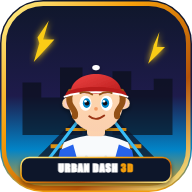
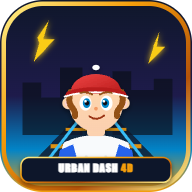
Urban-Dash-4D-menu

diff --git a/index.html b/index.html
@@ -3,7 +3,7 @@
 <head>
   <meta charset="UTF-8">
   <meta name="viewport" content="width=device-width, initial-scale=1.0, maximum-scale=1.0, user-scalable=no, viewport-fit=cover">
-  <title>Urban Dash 3D - Metro Rush</title>
+  <title>Urban Dash 4D - Metro Rush</title>
 
   <!-- Instant Cache Purge & Version Sync -->
   <script>
@@ -30,18 +30,18 @@
     })();
   </script>
 
-  <meta name="description" content="Urban Dash 3D: Metro Rush - High-octane 3D endless runner with magnetic rail tracks, jetpacks, crystal magnets, and monorail expresses!">
+  <meta name="description" content="Urban Dash 4D: Metro Rush - High-octane 3D endless runner with magnetic rail tracks, jetpacks, crystal magnets, and monorail expresses!">
   <meta name="theme-color" content="#0284c7">
   <meta name="mobile-web-app-capable" content="yes">
   <meta name="apple-mobile-web-app-capable" content="yes">
   <meta name="apple-mobile-web-app-status-bar-style" content="black-translucent">
-  <meta name="apple-mobile-web-app-title" content="Urban Dash 3D">
+  <meta name="apple-mobile-web-app-title" content="Urban Dash 4D">
   <link rel="manifest" href="manifest.json">
   <link rel="icon" type="image/svg+xml" href="icons/icon.svg">
   <link rel="apple-touch-icon" href="icons/icon-192.png">
 
   <!-- Stylesheet -->
-  <link rel="stylesheet" href="style.css?v=metro_rush">
+  <link rel="stylesheet" href="style.css?v=metro_rush_4d">
 </head>
 <body>
   <div id="game-container">
@@ -143,7 +143,7 @@
 
       <div class="menu-center-hero">
         <p class="game-subtitle">Metro Rush</p>
-        <h1 class="game-title"><span>Urban</span><span>Dash <small>3D</small></span></h1>
+        <h1 class="game-title"><span>Urban</span><span>Dash <small>4D</small></span></h1>
         <div class="menu-record">
           <span>Personal best</span>
           <strong id="menu-high-score">0</strong>
@@ -153,7 +153,7 @@
       <div class="menu-bottom-capsule">
         <div class="menu-actions-stack">
           <button class="cyber-btn primary-start-btn" id="btn-start">
-            <span class="btn-text">Start run</span>
+            <span class="btn-text">Play now</span>
             <span class="run-arrow" aria-hidden="true">&#8594;</span>
           </button>
           <button class="cyber-btn blue" id="btn-install-app">Install app</button>
@@ -302,7 +302,7 @@
       <div class="settings-modal" style="max-width: 360px;">
         <h2 class="game-title" style="font-size: 28px; margin-bottom: 8px;">📱 INSTALL APP</h2>
         <p style="font-size: 14px; color: #94a3b8; margin-bottom: 18px; line-height: 1.5;">
-          Add Urban Dash 3D directly to your phone Home Screen for instant full-screen play:
+          Add Urban Dash 4D directly to your phone Home Screen for instant full-screen play:
         </p>
         <div style="background: rgba(255,255,255,0.06); padding: 14px 16px; border-radius: 14px; font-size: 13px; line-height: 1.7; color: #f8fafc; border: 1px solid rgba(255,255,255,0.15); margin-bottom: 20px;">
           1. Tap Chrome's menu (<b>⋮ 3 dots</b>) at top right ↗<br>
@@ -319,7 +319,7 @@
   <!-- 3D Three.js Engine & Game Scripts -->
   <script src="libs/three.min.js"></script>
   <script src="audio.js?v=urbandash_v21"></script>
-  <script src="game.js?v=metro_rush"></script>
+  <script src="game.js?v=metro_rush_4d"></script>
 
   <!-- PWA Chrome Install Trigger Handler -->
   <script>

diff --git a/style.css b/style.css
@@ -1,4 +1,4 @@
-/* Urban Dash 3D: Metro Rush - Original High-End Mobile Franchise Stylesheet */
+/* Urban Dash 4D: Metro Rush - Original High-End Mobile Franchise Stylesheet */
 
 @import url('https://fonts.googleapis.com/css2?family=Fredoka+One&family=Montserrat:wght@600;700;800;900&display=swap');
 
@@ -1211,7 +1211,8 @@ html, body {
 
 #start-screen,
 body.theme-bright #start-screen {
-  --menu-accent: #cbff45;
+  --menu-accent: #dcff64;
+  isolation: isolate;
   display: grid;
   grid-template-rows: auto auto 1fr auto;
   justify-items: center;
@@ -1255,10 +1256,30 @@ body.theme-bright #start-screen {
   font-size: clamp(36px, 10vw, 62px);
   font-weight: 900;
   font-style: italic;
-  line-height: .86;
+  line-height: .93;
   letter-spacing: -.07em;
   text-transform: uppercase;
   text-shadow: 0 4px #13283c, 0 10px 26px #06111baf;
+}
+
+#start-screen::before {
+  content: "";
+  position: absolute;
+  inset: 0;
+  z-index: -1;
+  pointer-events: none;
+  background:
+    radial-gradient(ellipse at 75% 40%, #7af9ff36, transparent 48%),
+    repeating-linear-gradient(132deg, transparent 0 55px, #adf6ff22 56px 57px, transparent 58px 95px);
+  mask-image: linear-gradient(110deg, transparent 12%, #000 63%, transparent);
+}
+
+#start-screen .game-title span:first-child {
+  background: linear-gradient(180deg, #fff 35%, #bde7ee 85%);
+  background-clip: text;
+  color: transparent;
+  filter: drop-shadow(0 4px #13283c);
+  text-shadow: none;
 }
 
 #start-screen .game-title span + span {
@@ -1266,9 +1287,17 @@ body.theme-bright #start-screen {
 }
 
 #start-screen .game-title small {
-  font-size: .32em;
-  letter-spacing: 0;
-  vertical-align: top;
+  display: inline-block;
+  margin-left: .14em;
+  padding: .16em .25em .12em;
+  border: 1px solid #f1ffb3;
+  background: linear-gradient(145deg, #f1ff9b, #9fdf35);
+  box-shadow: 0 3px #527c17, 0 0 24px #b6ff5e54;
+  color: #142200;
+  font-size: .40em;
+  letter-spacing: -.05em;
+  text-shadow: none;
+  vertical-align: .28em;
 }
 
 .menu-record {
@@ -1305,8 +1334,8 @@ body.theme-bright #start-screen {
   min-height: 54px;
   padding: 10px 18px;
   border: 1px solid #ddff8a;
-  border-radius: 8px;
-  background: var(--menu-accent);
+  border-radius: 3px 15px 3px 15px;
+  background: linear-gradient(110deg, #edff9a, var(--menu-accent) 38%, #a5ed38);
   color: #122000;
   box-shadow: 0 4px #6c981b, 0 10px 30px #bfff4340;
   text-shadow: none;
@@ -1318,6 +1347,12 @@ body.theme-bright #start-screen {
 }
 
 #start-screen .run-arrow {
+  display: grid;
+  place-items: center;
+  width: 34px;
+  height: 30px;
+  border-left: 1px solid #28440045;
+  padding-left: 8px;
   font-size: 26px;
   line-height: 1;
 }
@@ -1387,6 +1422,17 @@ body.theme-bright #start-screen {
   }
 
   #start-screen .menu-actions-stack { align-items: flex-start; }
+  #start-screen .menu-center-hero { position: relative; isolation: isolate; }
+  #start-screen .menu-center-hero::before {
+    content: "";
+    position: absolute;
+    z-index: -1;
+    inset: -14% -12% -9% -18%;
+    transform: skewX(-12deg);
+    border-right: 2px solid #a0eff955;
+    background: linear-gradient(100deg, #122b3c00 18%, #122b3c70 100%);
+    pointer-events: none;
+  }
 }
 
 @media (max-height: 440px) {

diff --git a/game.js b/game.js
@@ -1,5 +1,5 @@
 /**
- * Urban Dash 3D - Metro Rush
+ * Urban Dash 4D - Metro Rush
  * Original High-Performance 3D Franchise Runner built with Three.js
  */
 
@@ -2390,12 +2390,17 @@
     if (window.soundEngine) window.soundEngine.playSlideSFX();
   }
 
+  function pulseBoostHaptics() {
+    if (!reducedMotion.matches) navigator.vibrate?.(45);
+  }
+
   function activateHoverboardSurf() {
     if (!state.running || state.paused) return;
     if (state.hasShield && state.isBoosted) return; // already active
 
     state.hasShield = true;
     state.isBoosted = true;
+    pulseBoostHaptics();
     state.boostTimer = 16.0; // 16 seconds of surfboard fun
     if (hoverboardMesh) hoverboardMesh.visible = true;
     if (badgeShield) {
@@ -2413,6 +2418,7 @@
     if (state.overdriveCharge >= 25 || state.isBoosted) {
       state.isBoosted = true;
       state.hasShield = true;
+      pulseBoostHaptics();
       state.boostTimer = 6.0;
       state.overdriveCharge = 0;
       if (hoverboardMesh) hoverboardMesh.visible = true;

diff --git a/sw.js b/sw.js
@@ -1,5 +1,5 @@
-// Network-First Service Worker for Urban Dash 3D PWA
-const CACHE_NAME = 'urbandash-v24-roller-skates-track-surf';
+// Network-First Service Worker for Urban Dash 4D PWA
+const CACHE_NAME = 'urbandash-v25-metro-rush-4d';
 
 const CORE_ASSETS = [
   './manifest.json',
